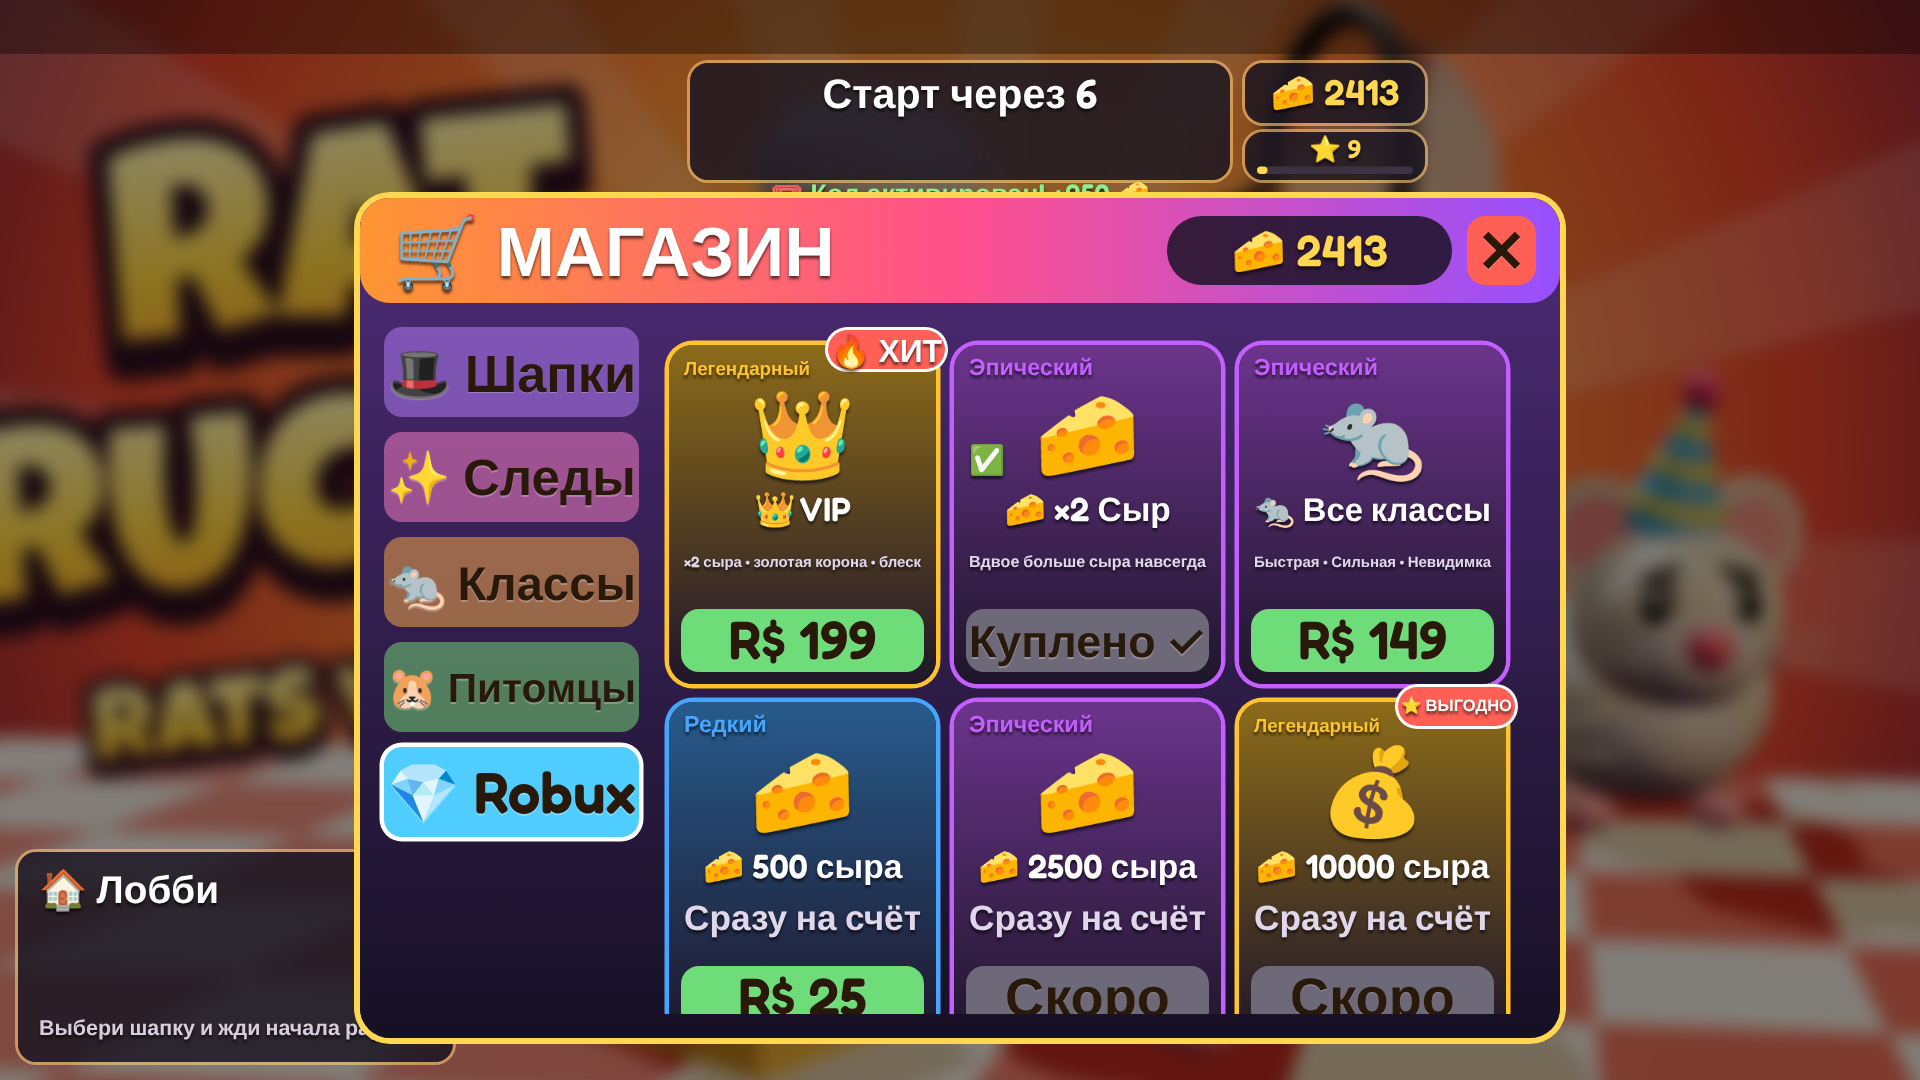
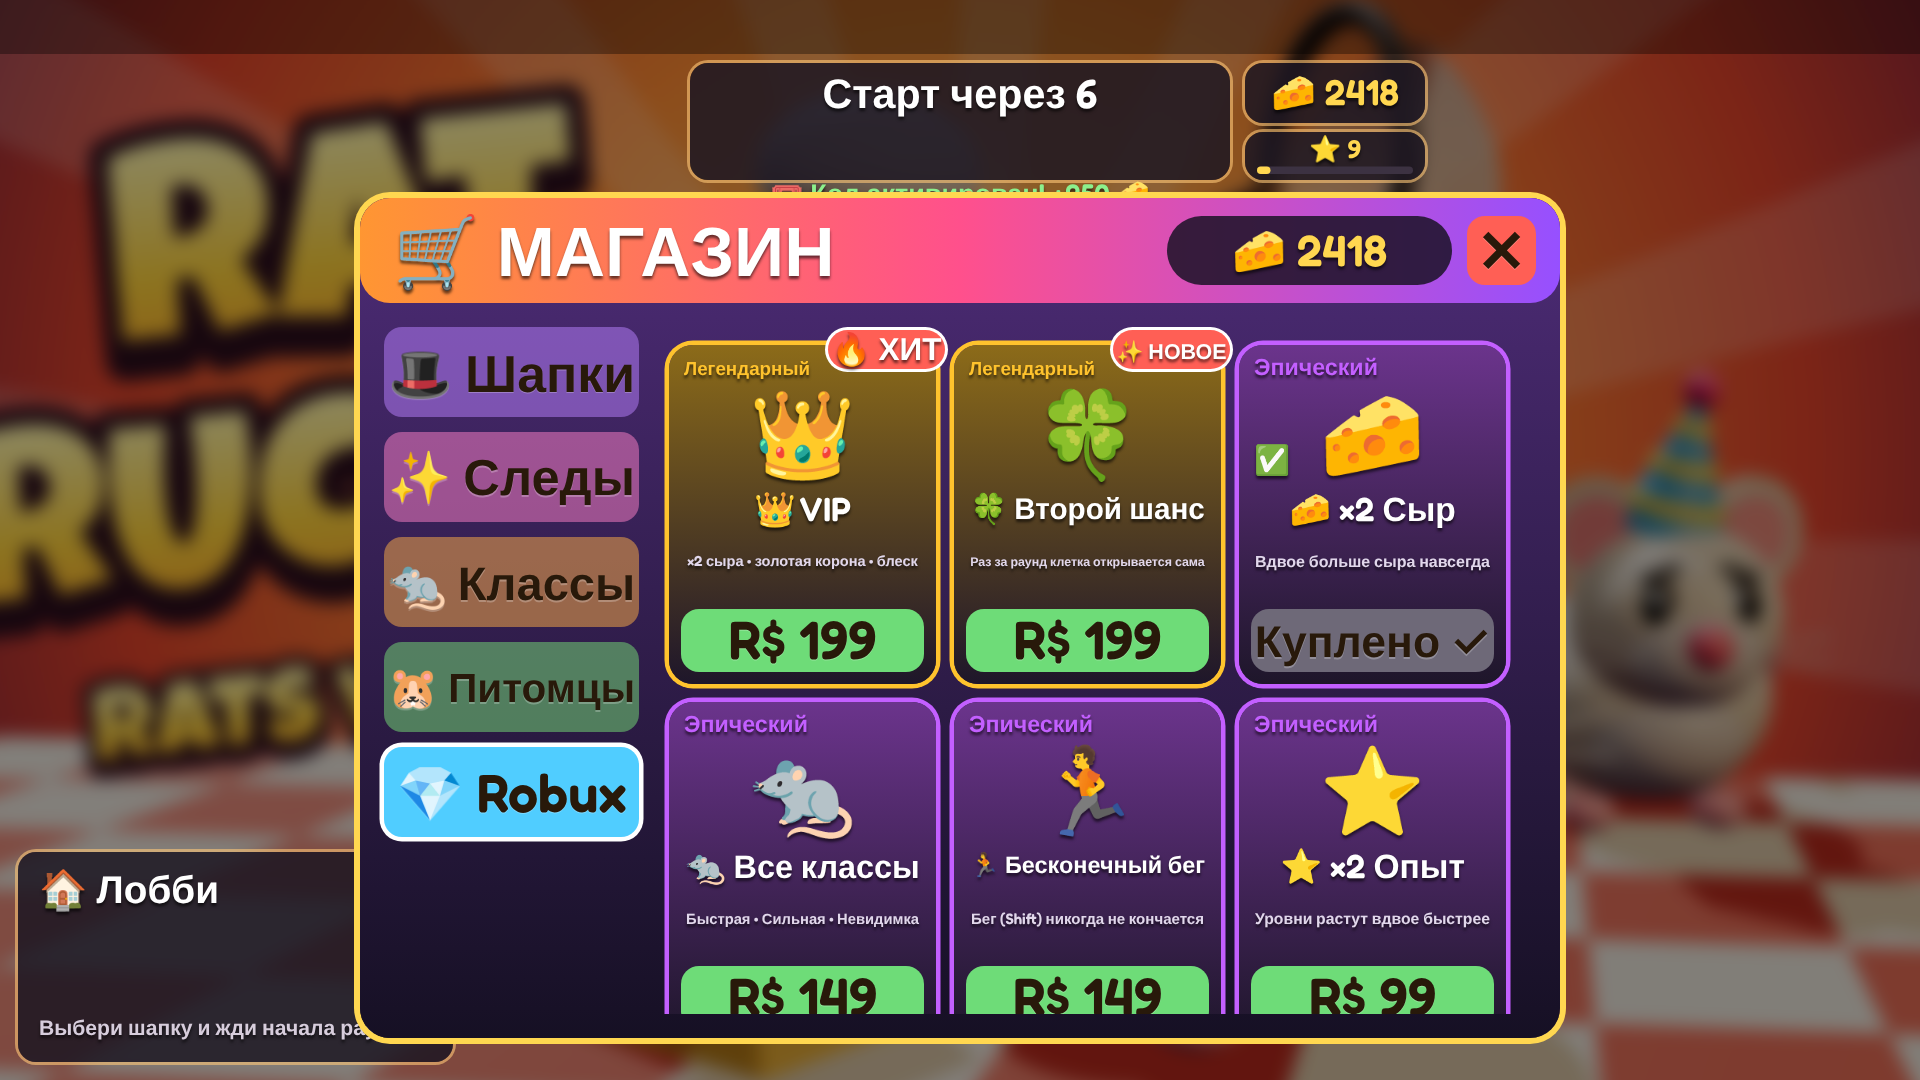
Add 5 new game passes: Second Chance, Infinite Sprint, 2x XP, Mega Dances, Chef Pass
- Second Chance: first catch per round, the cage opens by itself after 3 s
  (the round waits instead of ending while it is pending)
- Infinite Sprint: stamina never drains
- 2x XP: all XP doubled in DataService.addXP
- Mega Dances: new Disco (N) and Worm (M) emotes, gated on the server;
  pressing them without the pass opens the purchase prompt
- Chef Pass: volunteers with the pass are picked as chef first
- Shop: pass cards driven by one table, new NEW ribbon, RU/EN texts
- Tests for every new pass

Claude-Session: https://claude.ai/code/session_01UeFiR8JiVQmrZUm7TbLfbn

diff --git a/roblox-rat-game/README.md b/roblox-rat-game/README.md
@@ -3,6 +3,17 @@
 **Жанр:** командная игра «крысы против повара».
 Ночью в ресторане 2–7 крыс устраивают хаос, а повар (игрок или робот) пытается их переловить.
 
+## 🎟 Версия 6: ещё 5 пропусков (Game Passes)
+| Пропуск | Что даёт | Цена | Куда вставить ID |
+|---|---|---|---|
+| 🍀 Второй шанс | первый раз за раунд клетка открывается сама через 3 сек | R$ 199 | `Config.GamePasses.SecondChance` |
+| 🏃 Бесконечный бег | бег (Shift) не заканчивается | R$ 149 | `Config.GamePasses.InfiniteStamina` |
+| ⭐ ×2 Опыт | весь опыт удваивается | R$ 99 | `Config.GamePasses.DoubleXP` |
+| 🪩 Мега-танцы | танцы «Диско» (N) и «Червяк» (M); без пропуска игра сразу предлагает купить | R$ 79 | `Config.GamePasses.MegaDances` |
+| 🍳 Пропуск повара | если включил «Хочу быть поваром», выбирают тебя первым | R$ 99 | `Config.GamePasses.ChefPass` |
+
+Создай каждый пропуск на create.roblox.com → **Monetization → Passes**, поставь цену и вставь ID в `Config`.
+
 ## 🛒 Версия 5: красивый магазин (всё за сыр или за Robux)
 - Новый дизайн: категории слева, карточки с редкостью (Обычный / Редкий / Эпический / Легендарный), значки «🔥 ХИТ», анимация при наведении, подстройка под экран телефона.
 - **Любой** предмет (шапка, след, класс, питомец) можно купить за 🧀 **или** за R$.
@@ -109,7 +120,7 @@
 ## 💎 Донат (Robux)
 
 В магазине есть вкладка **💎 Магазин**: VIP (×2 сыра, золотая корона, блеск), пропуск ×2 Сыр и пачки сыра.
-1. **create.roblox.com** → твоя игра → **Monetization** → **Passes** → **Create a Pass**: создай «VIP», «×2 Сыр» и «Все классы».
+1. **create.roblox.com** → твоя игра → **Monetization** → **Passes** → **Create a Pass**: создай «VIP», «×2 Сыр», «Все классы», «Второй шанс», «Бесконечный бег», «×2 Опыт», «Мега-танцы», «Пропуск повара».
 2. **Monetization** → **Developer Products** → **Create**: пачки «500 сыра», «2500 сыра», «10000 сыра», «Сбежать из клетки», «Стать поваром».
 3. Скопируй **ID** каждого товара и вставь в `Config` (`Config.GamePasses` и `Config.Products`). Пока стоит 0, кнопка показывает «Скоро».
 
